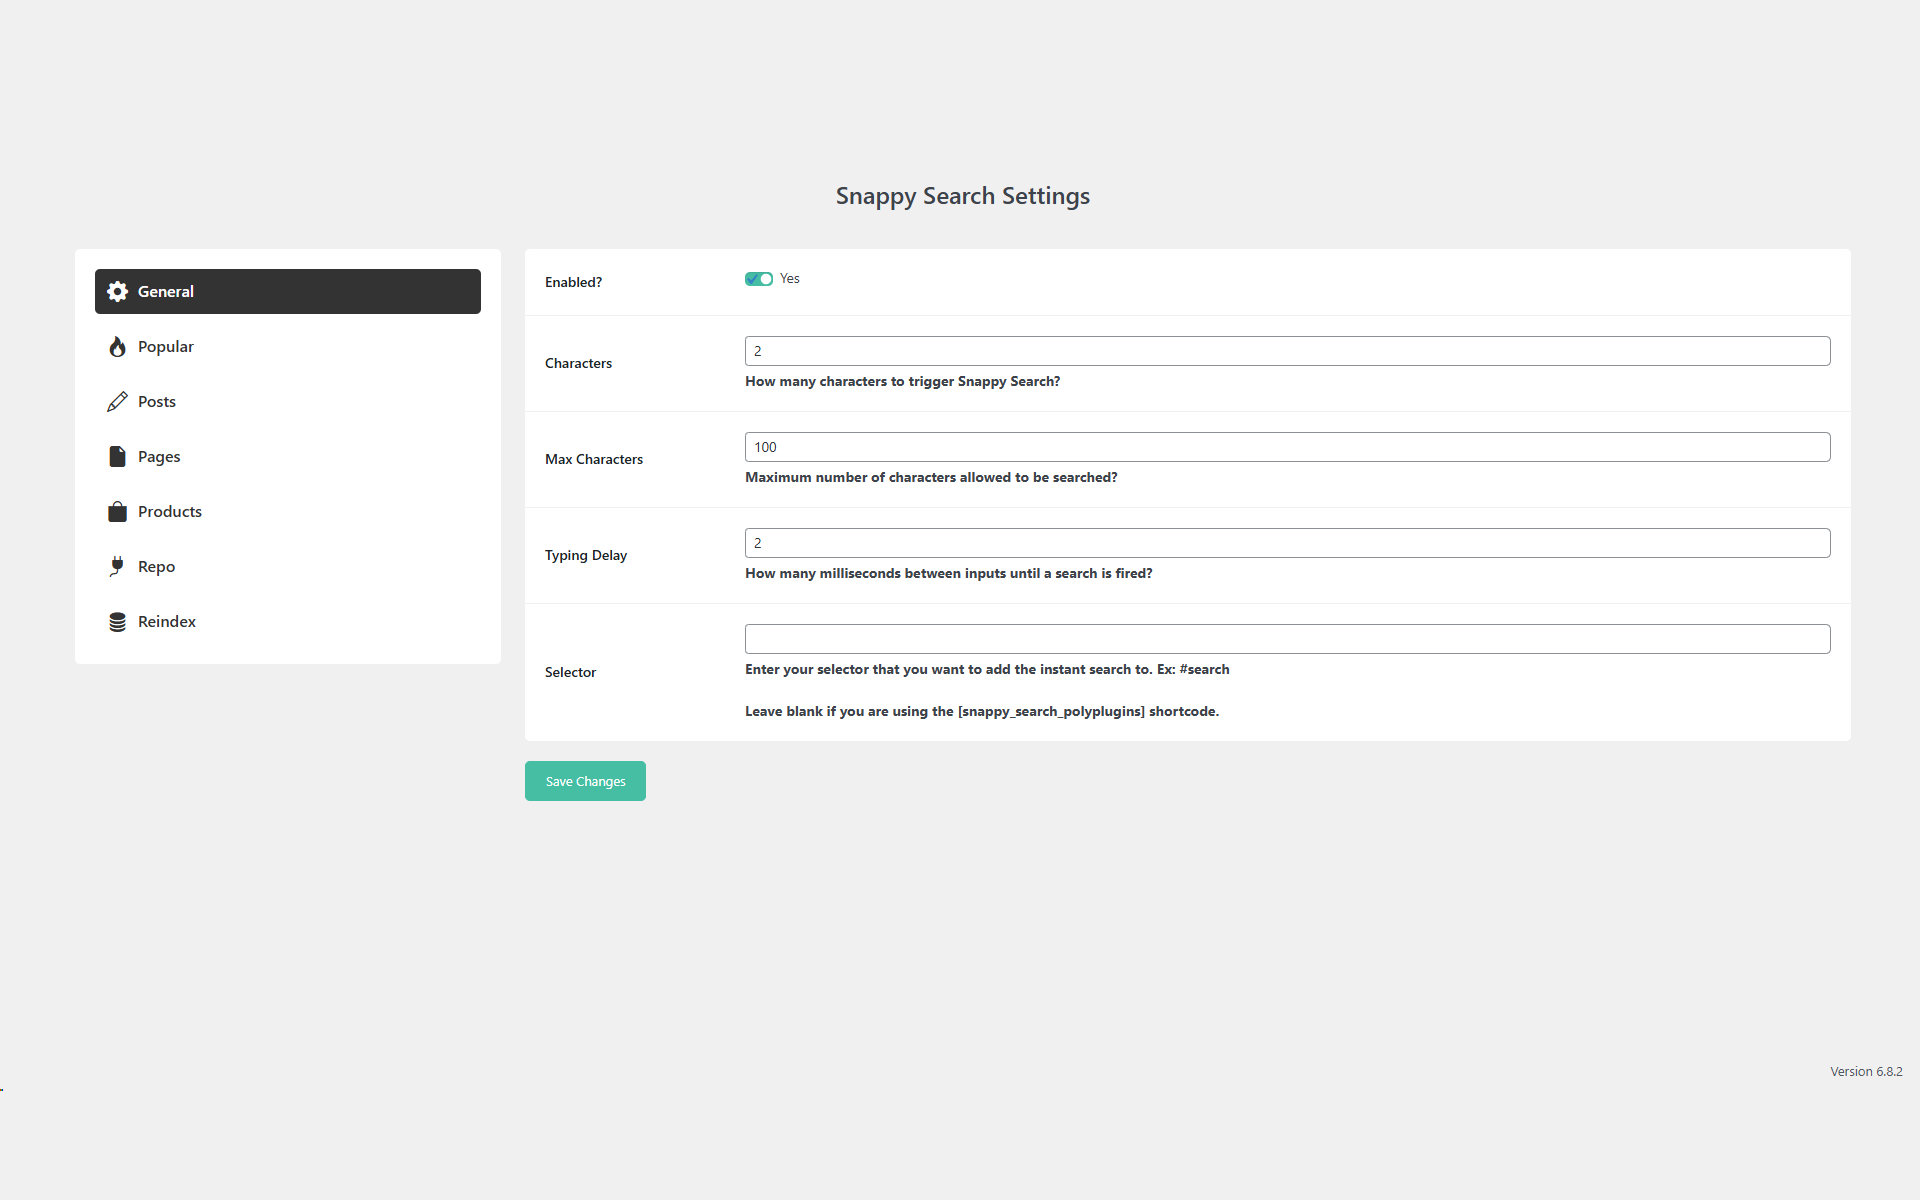
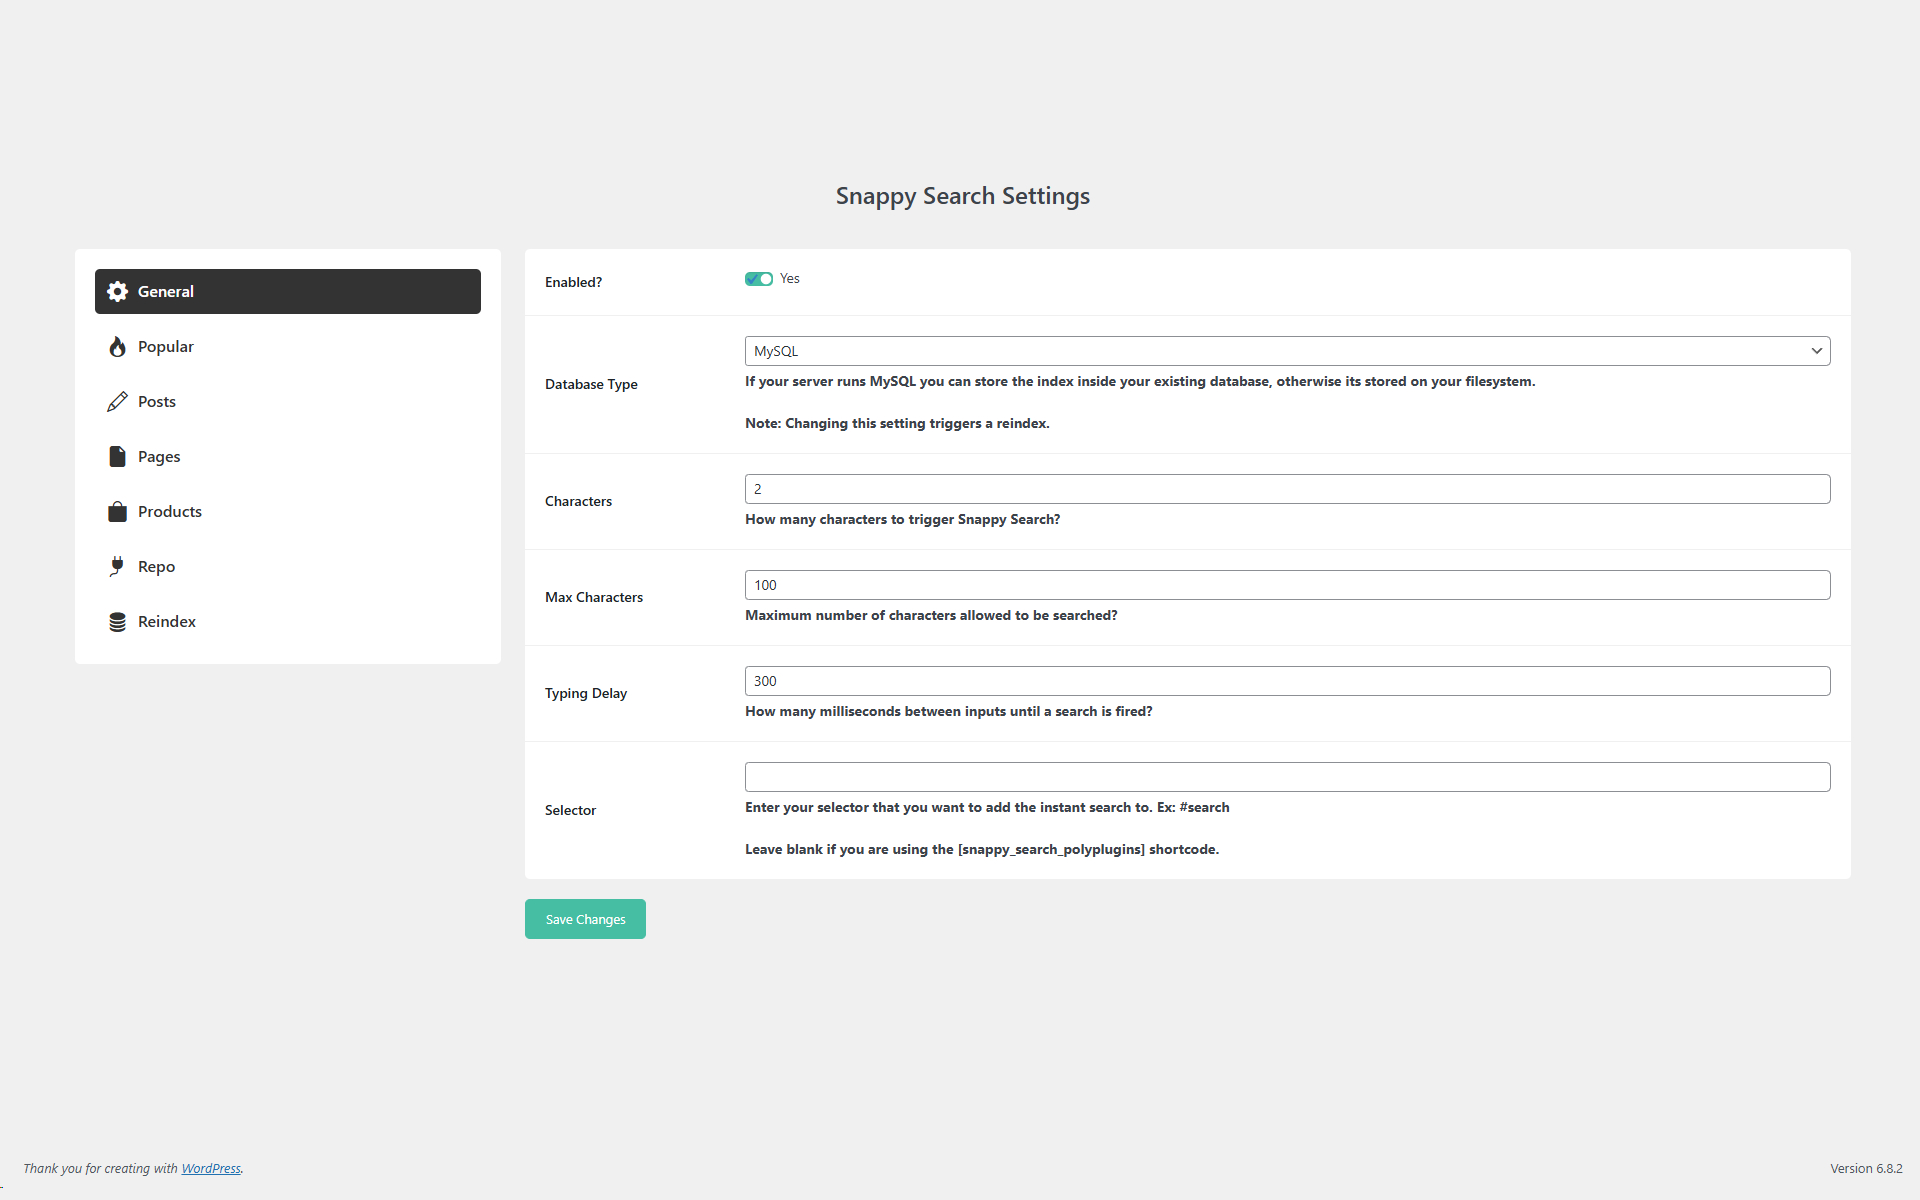
Updated: Translations Updated: Readme Updated: Screenshots Updated: Todo

diff --git a/README.MD b/README.MD
@@ -78,6 +78,19 @@ By default, it will index 10 posts per minute.
 
 ## Changelog
 
+### 1.3.0
+* Added: Support for using the WP DB instead of SQLite since TNTSearch supports it
+* Added: Database type setting
+* Added: Another shortcode for replacing advanced search
+* Added: Better handling for indexing fallback
+* Added: Skeleton loader
+* Added: Initial loading indicator
+* Added: Additional styling
+* Updated: Fall back to default WordPress search when indexing
+* Updated: Translations
+* Bugfix: If using multiple search forms, only the first one works
+* Optimized: Indexing logic
+
 ### 1.2.0
 * Added: Custom template for shortcode search so the layout can be changed. Add your own custom template by copying snappy-search-form.php to your theme folder
 * Added: Popular searches that display under the search form
